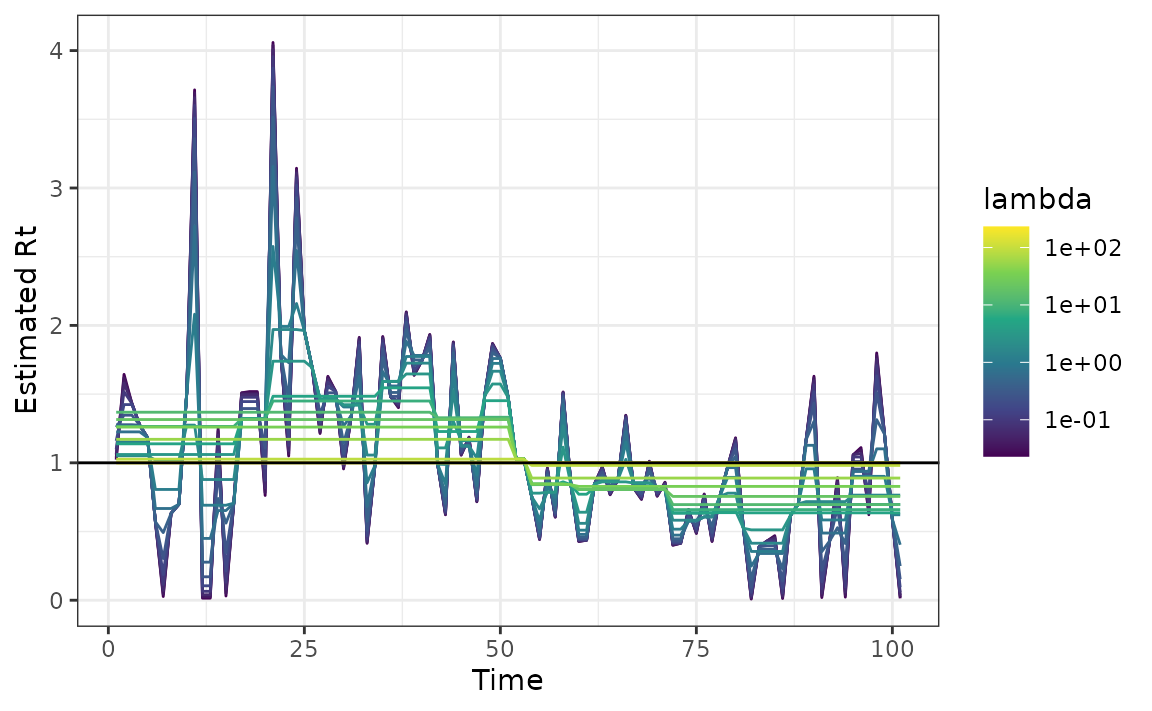
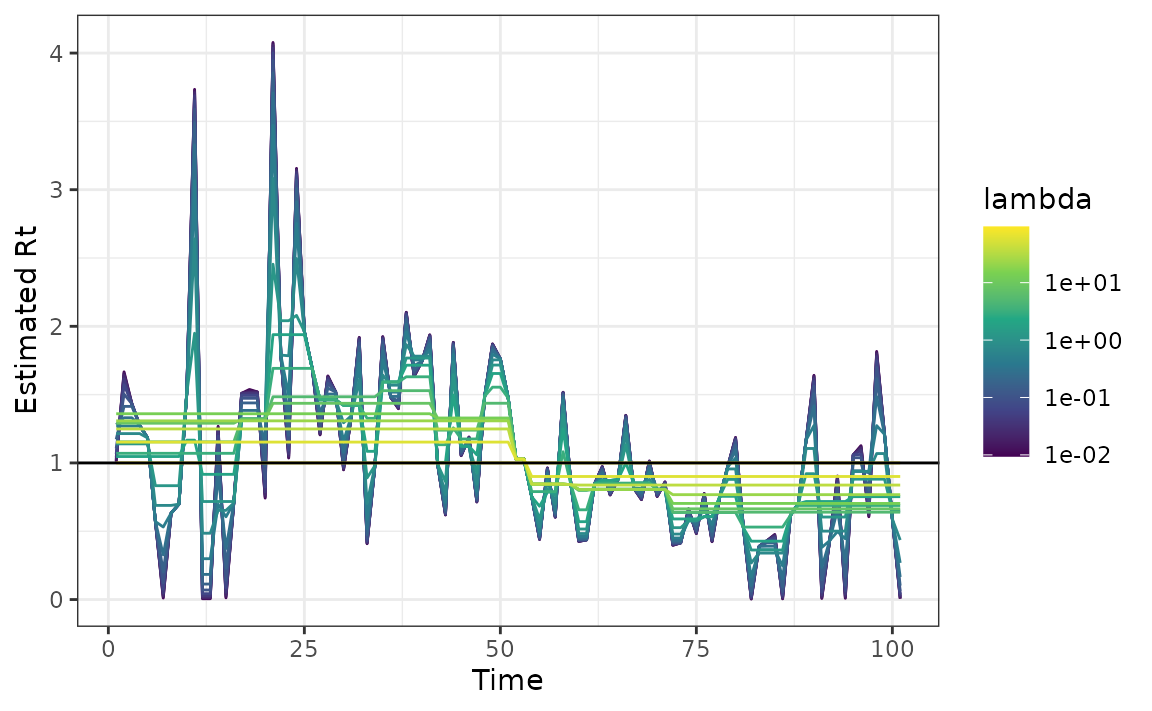
Deploying to gh-pages from @ dajmcdon/rtestim@d9c829354710d5c2755e02ff08bb2f5c881d6148 🚀

diff --git a/reference/estimate_rt.html b/reference/estimate_rt.html
@@ -234,11 +234,11 @@ than the maximum number of iterations for the estimation algorithm.</p></li>
 <span class="r-out co"><span class="r-pr">#&gt;</span> Summary of the 40 estimated models:</span>
 <span class="r-out co"><span class="r-pr">#&gt;</span> </span>
 <span class="r-out co"><span class="r-pr">#&gt;</span>           lambda index approx_dof niterations</span>
-<span class="r-out co"><span class="r-pr">#&gt;</span> Max.    188.6196     1          1           0</span>
-<span class="r-out co"><span class="r-pr">#&gt;</span> 3rd Qu.  17.7806    11          6           0</span>
-<span class="r-out co"><span class="r-pr">#&gt;</span> Median    2.1226    20         29           0</span>
-<span class="r-out co"><span class="r-pr">#&gt;</span> 1st Qu.   0.2001    30         90           0</span>
-<span class="r-out co"><span class="r-pr">#&gt;</span> Min.      0.0189    40         95           0</span>
+<span class="r-out co"><span class="r-pr">#&gt;</span> Max.    80.25910     1          1           0</span>
+<span class="r-out co"><span class="r-pr">#&gt;</span> 3rd Qu.  7.56577    11          9           0</span>
+<span class="r-out co"><span class="r-pr">#&gt;</span> Median   0.90318    20         54           0</span>
+<span class="r-out co"><span class="r-pr">#&gt;</span> 1st Qu.  0.08514    30         93           0</span>
+<span class="r-out co"><span class="r-pr">#&gt;</span> Min.     0.00803    40         96           0</span>
 <span class="r-out co"><span class="r-pr">#&gt;</span> </span>
 <span class="r-in"><span><span class="fu"><a href="https://rdrr.io/r/graphics/plot.default.html" class="external-link">plot</a></span><span class="op">(</span><span class="va">out0</span><span class="op">)</span></span></span>
 <span class="r-plt img"><img src="estimate_rt-2.png" alt="" width="700" height="433"></span>
